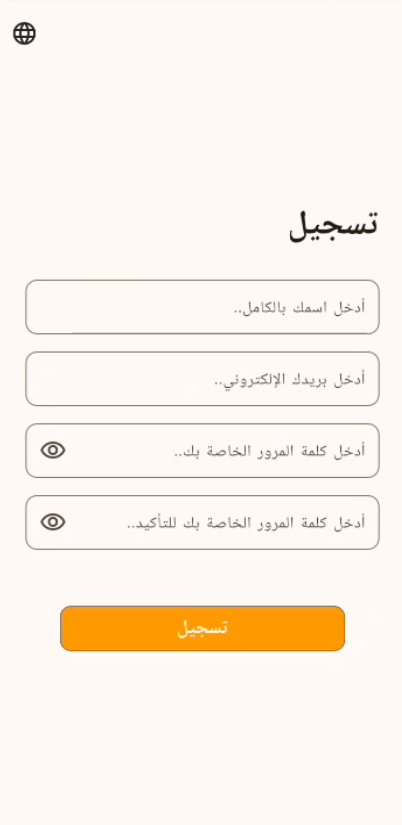
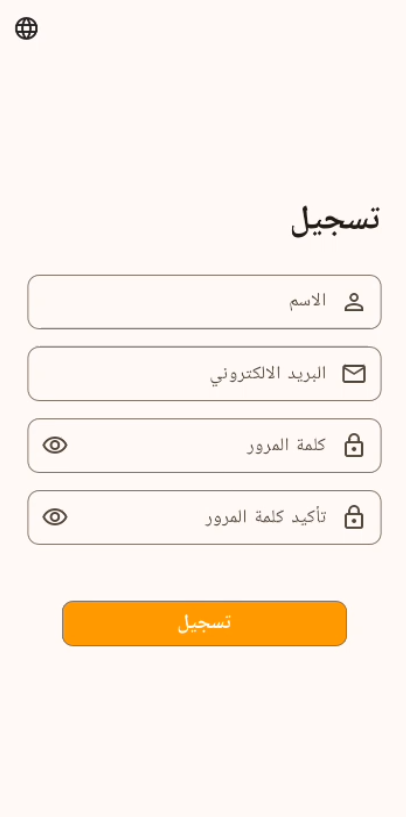
Edit form fields and translations

diff --git a/lib/screens/sign_up_page.dart b/lib/screens/sign_up_page.dart
@@ -59,6 +59,8 @@ class _SignUpPageState extends State<SignUpPage> {
                     controller: _nameController,
                     keyboardType: TextInputType.name,
                     hintText: '5'.tr(),
+                    labelText: '29'.tr(),
+                    prefixWidget: Icon(Icons.person_outline),
                     validator: (value) {
                       if (value!.isEmpty) {
                         return '6'.tr();
@@ -74,6 +76,8 @@ class _SignUpPageState extends State<SignUpPage> {
                     controller: _emailController,
                     keyboardType: TextInputType.emailAddress,
                     hintText: '8'.tr(),
+                    labelText: '30'.tr(),
+                    prefixWidget: Icon(Icons.email_outlined),
                     validator: (value) {
                       if (value!.isEmpty) {
                         return '9'.tr();
@@ -93,6 +97,8 @@ class _SignUpPageState extends State<SignUpPage> {
                     keyboardType: TextInputType.visiblePassword,
                     suffixPressed: _changePasswordVisibility,
                     hintText: '11'.tr(),
+                    labelText: '31'.tr(),
+                    prefixWidget: Icon(Icons.lock_outline),
                     validator: (value) {
                       if (value!.isEmpty) {
                         return '12'.tr();
@@ -112,6 +118,8 @@ class _SignUpPageState extends State<SignUpPage> {
                     keyboardType: TextInputType.visiblePassword,
                     suffixPressed: _changeConfirmPasswordVisibility,
                     hintText: '14'.tr(),
+                    labelText: '32'.tr(),
+                    prefixWidget: Icon(Icons.lock_outline),
                     validator: (value) {
                       if (value!.isEmpty) {
                         return null;

diff --git a/lib/widgets/auth_widgets/custom_from_field.dart b/lib/widgets/auth_widgets/custom_from_field.dart
@@ -11,6 +11,8 @@ class CustomFromField extends StatelessWidget {
     this.suffixIcon,
     this.secure = false,
     this.isPassword = false,
+    required this.labelText,
+    this.prefixWidget,
   });
 
   final String hintText;
@@ -21,6 +23,8 @@ class CustomFromField extends StatelessWidget {
   final bool isPassword;
   final void Function()? suffixPressed;
   final IconData? suffixIcon;
+  final String labelText;
+  final Widget? prefixWidget;
 
   @override
   Widget build(BuildContext context) {
@@ -34,6 +38,8 @@ class CustomFromField extends StatelessWidget {
           obscureText: secure,
           decoration: InputDecoration(
             hintText: hintText,
+            labelText: labelText,
+            prefixIcon: prefixWidget,
             hintStyle: TextStyle(fontSize: 14.0),
             border: OutlineInputBorder(
               borderRadius: BorderRadius.all(Radius.circular(10.0)),

diff --git a/lib/utils/app_strings_en.dart b/lib/utils/app_strings_en.dart
@@ -21,4 +21,8 @@ class AppStringsEn {
   static const String success = 'Success';
   static const String close = 'Close';
   static const String changeLanguage = 'Change Language';
+  static const String fullName = 'Full Name';
+  static const String email = 'Email';
+  static const String password = 'Password';
+  static const String confirmPassword = 'Confirm Password';
 }

diff --git a/lib/widgets/auth_widgets/sign_up_button.dart b/lib/widgets/auth_widgets/sign_up_button.dart
@@ -30,7 +30,7 @@ class SignUpButton extends StatelessWidget {
         style: TextStyle(
           color: AppColors.white,
           fontWeight: FontWeight.bold,
-          fontSize: 17.0,
+          fontSize: 18.0,
         ),
       ),
     );
